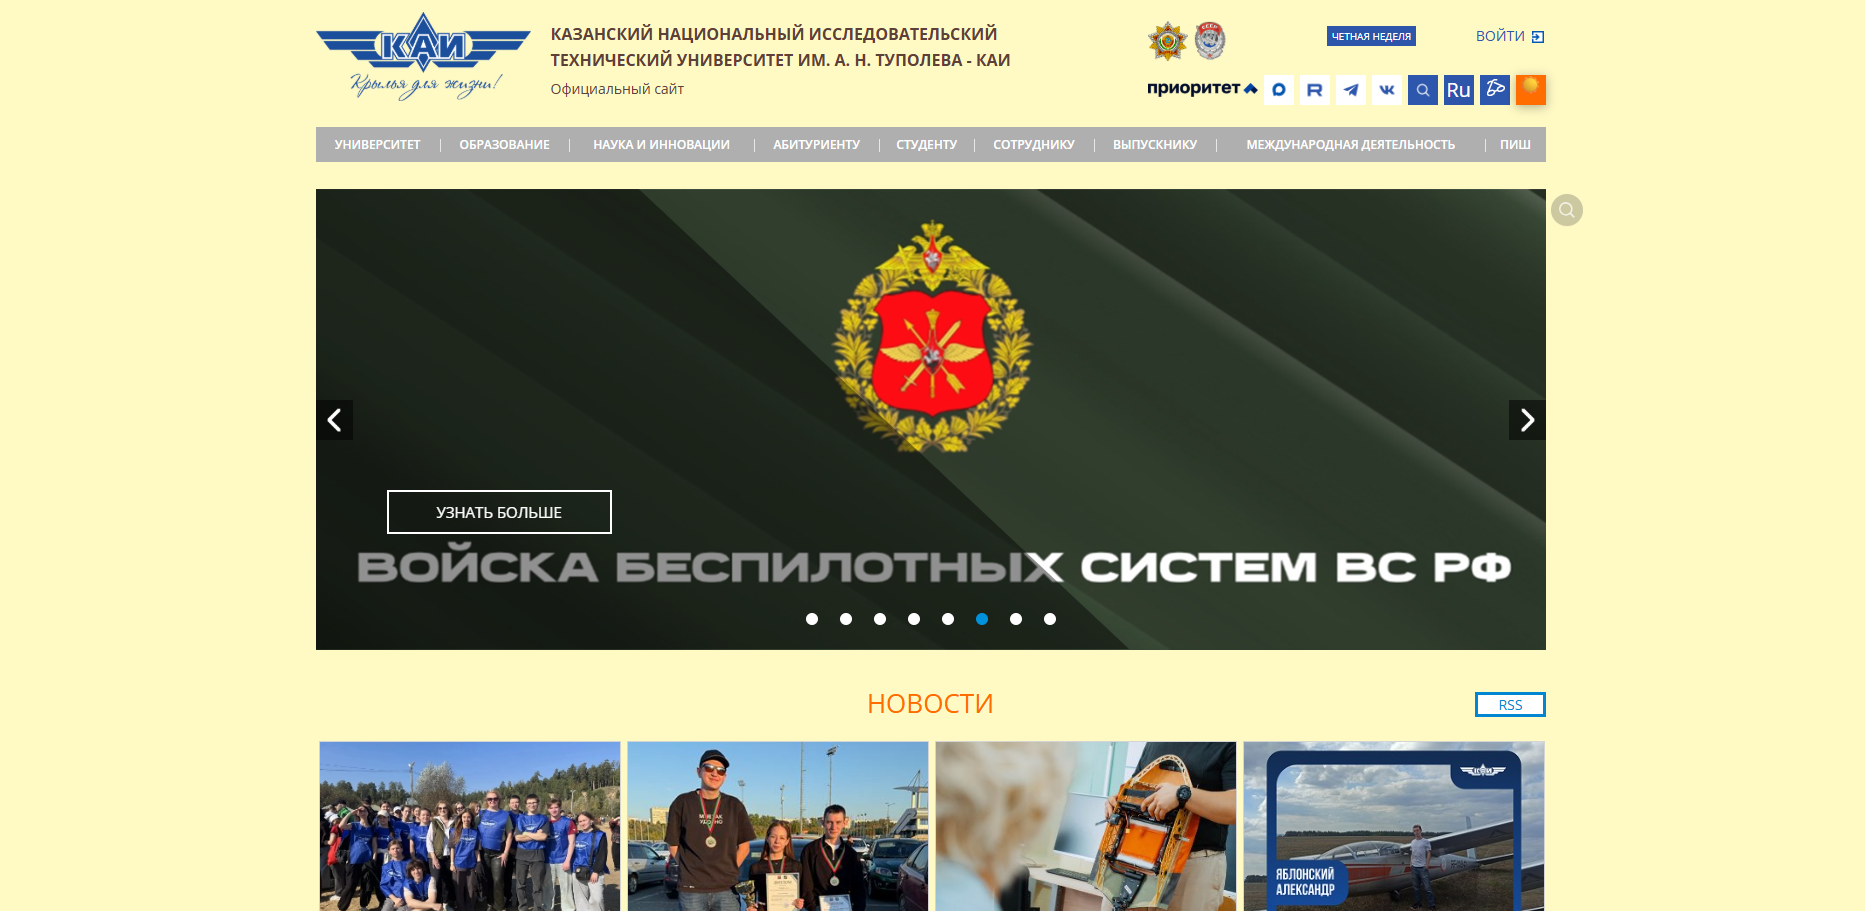
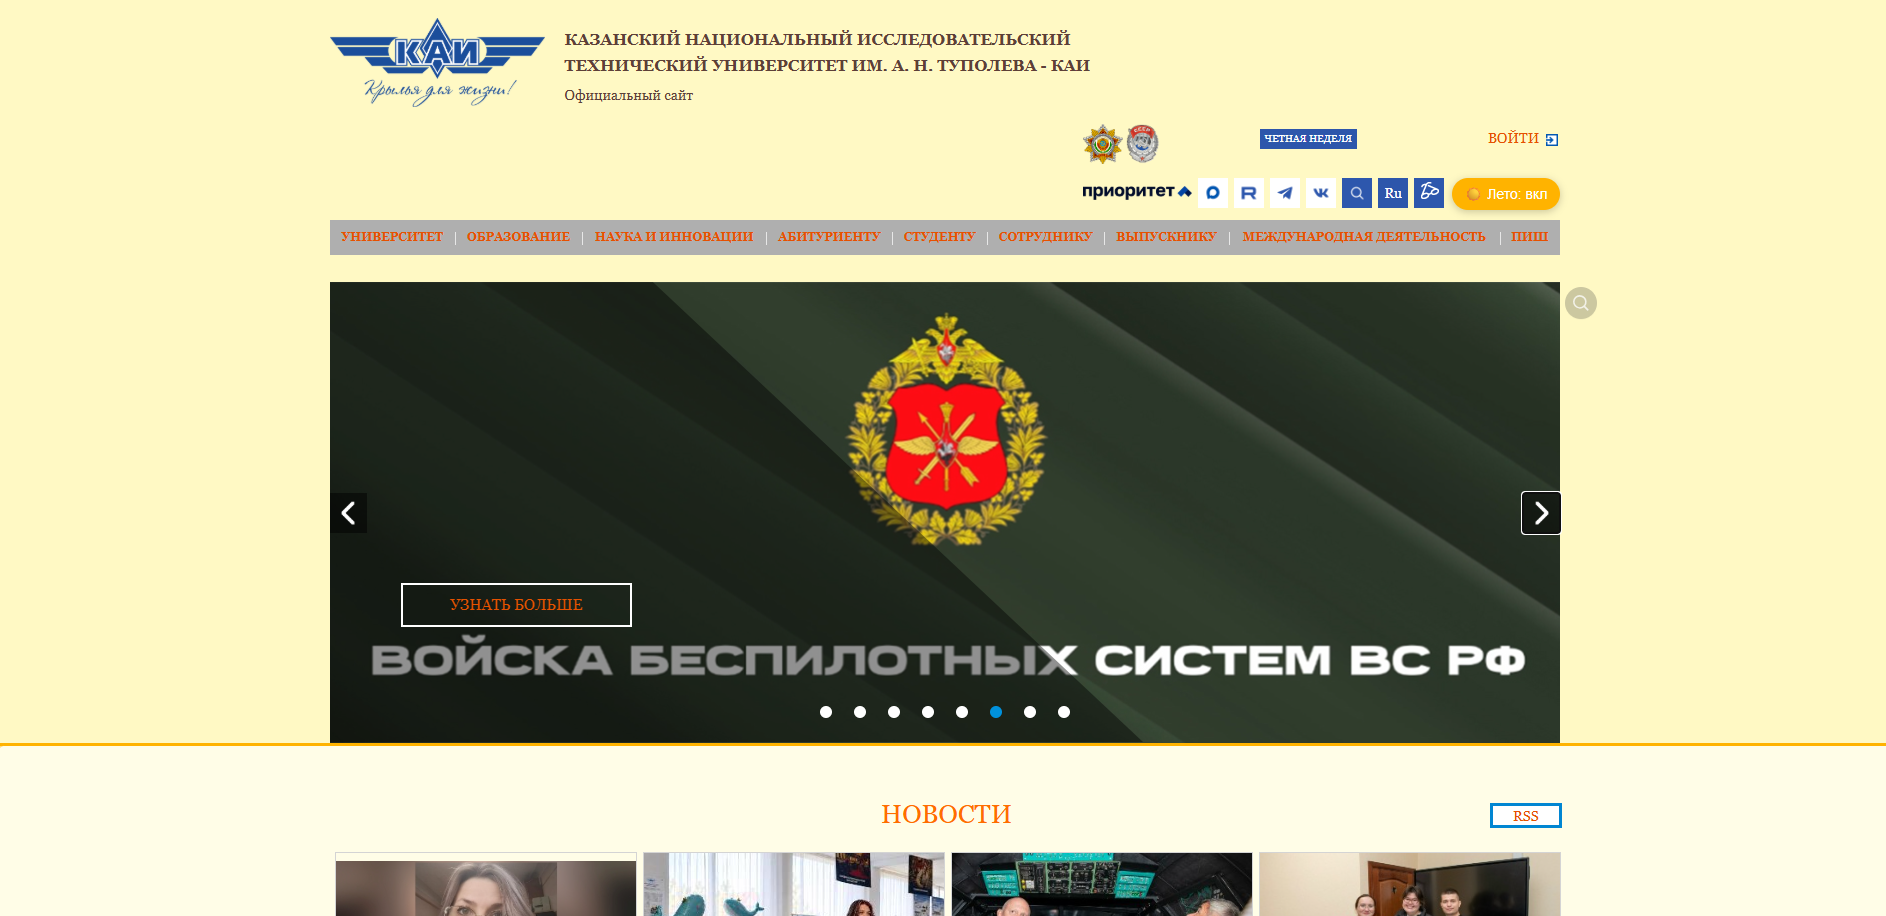
Some review fixes

diff --git a/lab2-dom/solutions/student-14/style-plugin/content.js b/lab2-dom/solutions/student-14/style-plugin/content.js
@@ -1,116 +1,95 @@
-'use strict'
+'use strict';
 
-function addSummerMode() {
-    // Функция для переключения летнего режима
-    function toggleSummerMode() {
-        const pageWrapper = document.getElementById('page_wrapper');
-        const mainSlider = document.querySelector('.main_slider_holder');
-        const newsBox = document.querySelector('.news_box');
-        const headings = document.querySelectorAll('h1, h2, h3, h4, h5, h6');
+// ===== КОНСТАНТЫ =====
+const THEME_KEY = 'kaiSummerTheme';
+const BUTTON_ID = 'kai-summer-toggle-btn';
 
-        if (!pageWrapper) {
-            console.log('Элемент с id="page_wrapper" не найден');
-            return;
-        }
+// ===== СЛОЖНЫЙ СЕЛЕКТОР: два класса + псевдокласс =====
+const MENU_LINK_SELECTOR = '.box_links .link:not(:first-child)';
 
-        const currentBg = pageWrapper.style.backgroundColor;
-        const isSummer =
-            currentBg === 'rgb(255, 249, 196)' ||
-            currentBg === '#fff9c4';
+// ===== ПРИМЕНЕНИЕ / СНЯТИЕ ТЕМЫ (одна функция на оба случая) =====
+function setSummerTheme(on) {
+    const set = (el, prop, val) => { if (el) el.style[prop] = on ? val : ''; };
 
-        if (isSummer) {
-            // Возвращаем оригинальные стили
-            pageWrapper.style.backgroundColor = '';
-            pageWrapper.style.color = '';
-            pageWrapper.style.fontSize = '';
+    // 1–3. Основные стили страницы
+    const wrapper = document.getElementById('page_wrapper');
+    set(wrapper, 'backgroundColor', '#fff9c4');
+    set(wrapper, 'color', '#5d4037');
+    set(wrapper, 'fontFamily', 'Georgia, serif');
 
-            if (mainSlider) {
-                mainSlider.style.background = '#eee';
-            }
-            if (newsBox) {
-                newsBox.style.background = '#eee';
-            }
-            headings.forEach((heading) => {
-                heading.style.color = '';
-            });
-        } else {
-            // Устанавливаем летний режим
-            pageWrapper.style.backgroundColor = '#fff9c4';
-            pageWrapper.style.color = '#5d4037';
-            pageWrapper.style.fontSize = '20px';
+    // 4–5. Слайдер
+    const slider = document.querySelector('.main_slider_holder');
+    set(slider, 'background', '#fff9c4');
+    set(slider, 'borderBottom', '3px solid #ffb300');
 
-            if (mainSlider) {
-                mainSlider.style.background = '#fff9c4';
-            }
-            if (newsBox) {
-                newsBox.style.background = '#fff9c4';
-            }
-            headings.forEach((heading) => {
-                heading.style.color = '#ff6d00';
-            });
+    // 6–8. Блок новостей
+    const news = document.querySelector('.news_box');
+    set(news, 'background', '#fffde7');
+    set(news, 'borderLeft', '4px solid #ffb300');
+    set(news, 'padding', '15px');
+
+    // 9. Все ссылки
+    document.querySelectorAll('a').forEach(a => set(a, 'color', '#e65100'));
+
+    // 10. Сложный селектор + fontWeight
+    document.querySelectorAll(MENU_LINK_SELECTOR).forEach(a => set(a, 'fontWeight', 'bold'));
+
+    // 11. parentElement + children + borderRadius
+    if (news && news.parentElement) {
+        for (const child of news.parentElement.children) {
+            set(child, 'borderRadius', '12px');
         }
     }
 
-    // Создаем и добавляем кнопку в DOM
-    function createToggleButton() {
-        // Проверяем, не создана ли уже кнопка
-        if (document.getElementById('summer-mode-toggle-btn')) {
-            console.log('Кнопка уже добавлена');
-            return;
-        }
+    // 12. Заголовки
+    document.querySelectorAll('h1, h2, h3').forEach(h => set(h, 'color', '#ff6d00'));
 
-        const buttonContainer = document.querySelector('.box_links');
-        if (!buttonContainer) {
-            console.log('Не найден контейнер для кнопок');
-            return;
-        }
-
-        const button = document.createElement('div');
-        button.id = 'summer-mode-toggle-btn';
-        button.textContent = '☀';
-        button.title = 'Переключить летний режим';
-
-        // Стили для кнопки
-        Object.assign(button.style, {
-            width: '30px',
-            height: '30px',
-            border: 'none',
-            backgroundColor: '#ff6d00',
-            color: 'white',
-            fontSize: '18px',
-            cursor: 'pointer',
-            margin: '0 0 0 6px',
-            boxShadow: '0 2px 10px rgba(0,0,0,0.3)',
-            textAlign: 'center',
-            float: 'left'
-        });
-
-        // Эффекты при наведении
-        button.addEventListener('mouseenter', () => {
-            button.style.transform = 'scale(1.1)';
-        });
-
-        button.addEventListener('mouseleave', () => {
-            button.style.transform = 'scale(1)';
-        });
-
-        // Обработчик клика
-        button.addEventListener('click', toggleSummerMode);
-
-        // Добавляем кнопку на страницу
-        buttonContainer.appendChild(button);
-
-        console.log('Кнопка переключения летнего режима добавлена');
-    }
-
-    // Запускаем создание кнопки
-    if (document.readyState === 'loading') {
-        console.log('Кнопка будет добавлена после загрузки');
-        document.addEventListener('DOMContentLoaded', createToggleButton);
-    } else {
-        console.log('Кнопка добавляется');
-        createToggleButton();
-    }
+    localStorage.setItem(THEME_KEY, on ? 'on' : 'off');
+    updateButton();
 }
 
-addSummerMode();
+// ===== КНОПКА =====
+function updateButton() {
+    const btn = document.getElementById(BUTTON_ID);
+    if (!btn) return;
+    const on = localStorage.getItem(THEME_KEY) === 'on';
+    btn.textContent = on ? '☀ Лето: вкл' : '☀ Лето: выкл';
+    btn.style.backgroundColor = on ? '#ffb300' : '#8bc34a';
+}
+
+function createButton() {
+    if (document.getElementById(BUTTON_ID)) return;
+    const container = document.querySelector('.box_links');
+    if (!container) return;
+
+    const btn = document.createElement('button');
+    btn.id = BUTTON_ID;
+    btn.title = 'Переключить летнюю тему';
+    Object.assign(btn.style, {
+        padding: '6px 12px',
+        border: 'none',
+        borderRadius: '20px',
+        color: '#fff',
+        fontSize: '14px',
+        cursor: 'pointer',
+        marginLeft: '8px',
+        boxShadow: '0 2px 8px rgba(0,0,0,0.2)'
+    });
+    btn.addEventListener('click', () => {
+        setSummerTheme(localStorage.getItem(THEME_KEY) !== 'on');
+    });
+    container.appendChild(btn);
+    updateButton();
+}
+
+// ===== ИНИЦИАЛИЗАЦИЯ =====
+function init() {
+    if (localStorage.getItem(THEME_KEY) === 'on') setSummerTheme(true);
+    createButton();
+}
+
+if (document.readyState === 'loading') {
+    document.addEventListener('DOMContentLoaded', init);
+} else {
+    init();
+}
